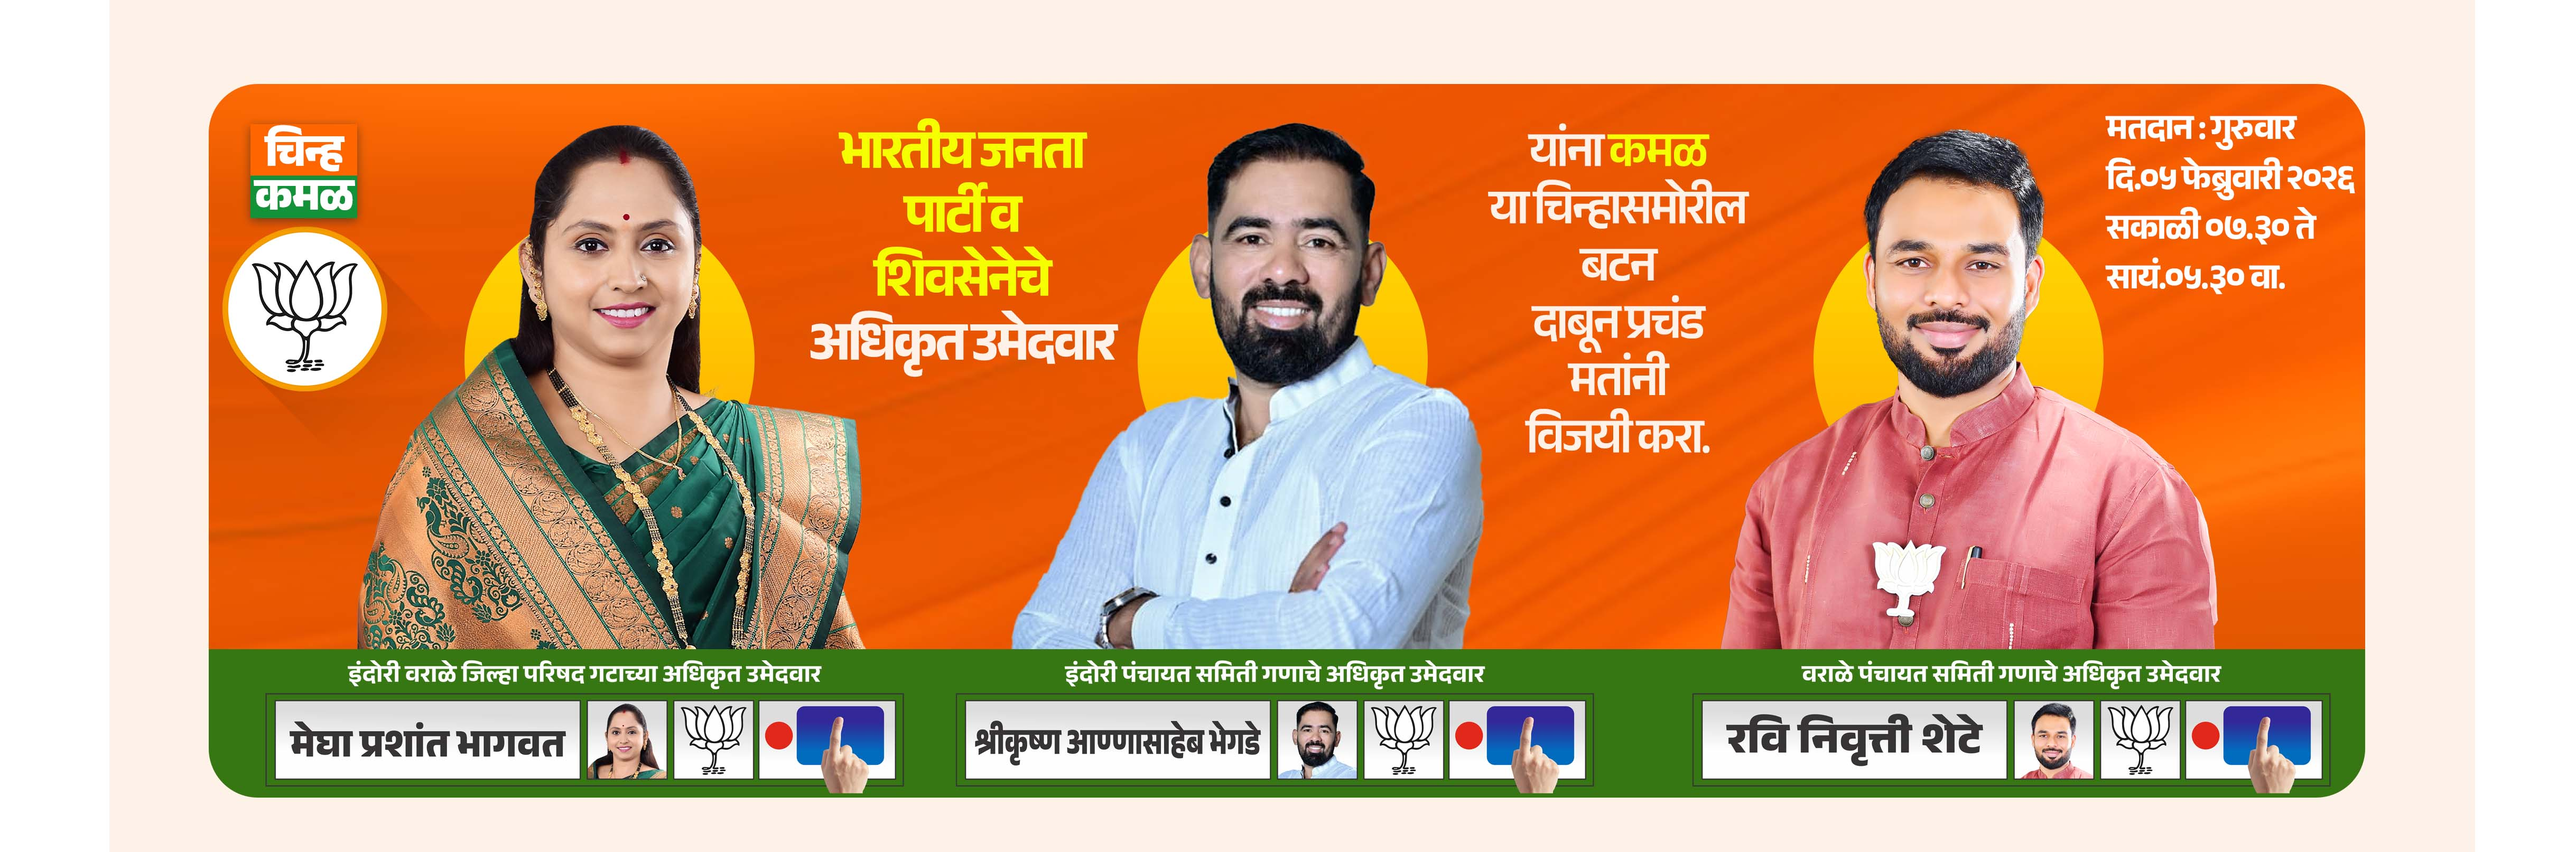
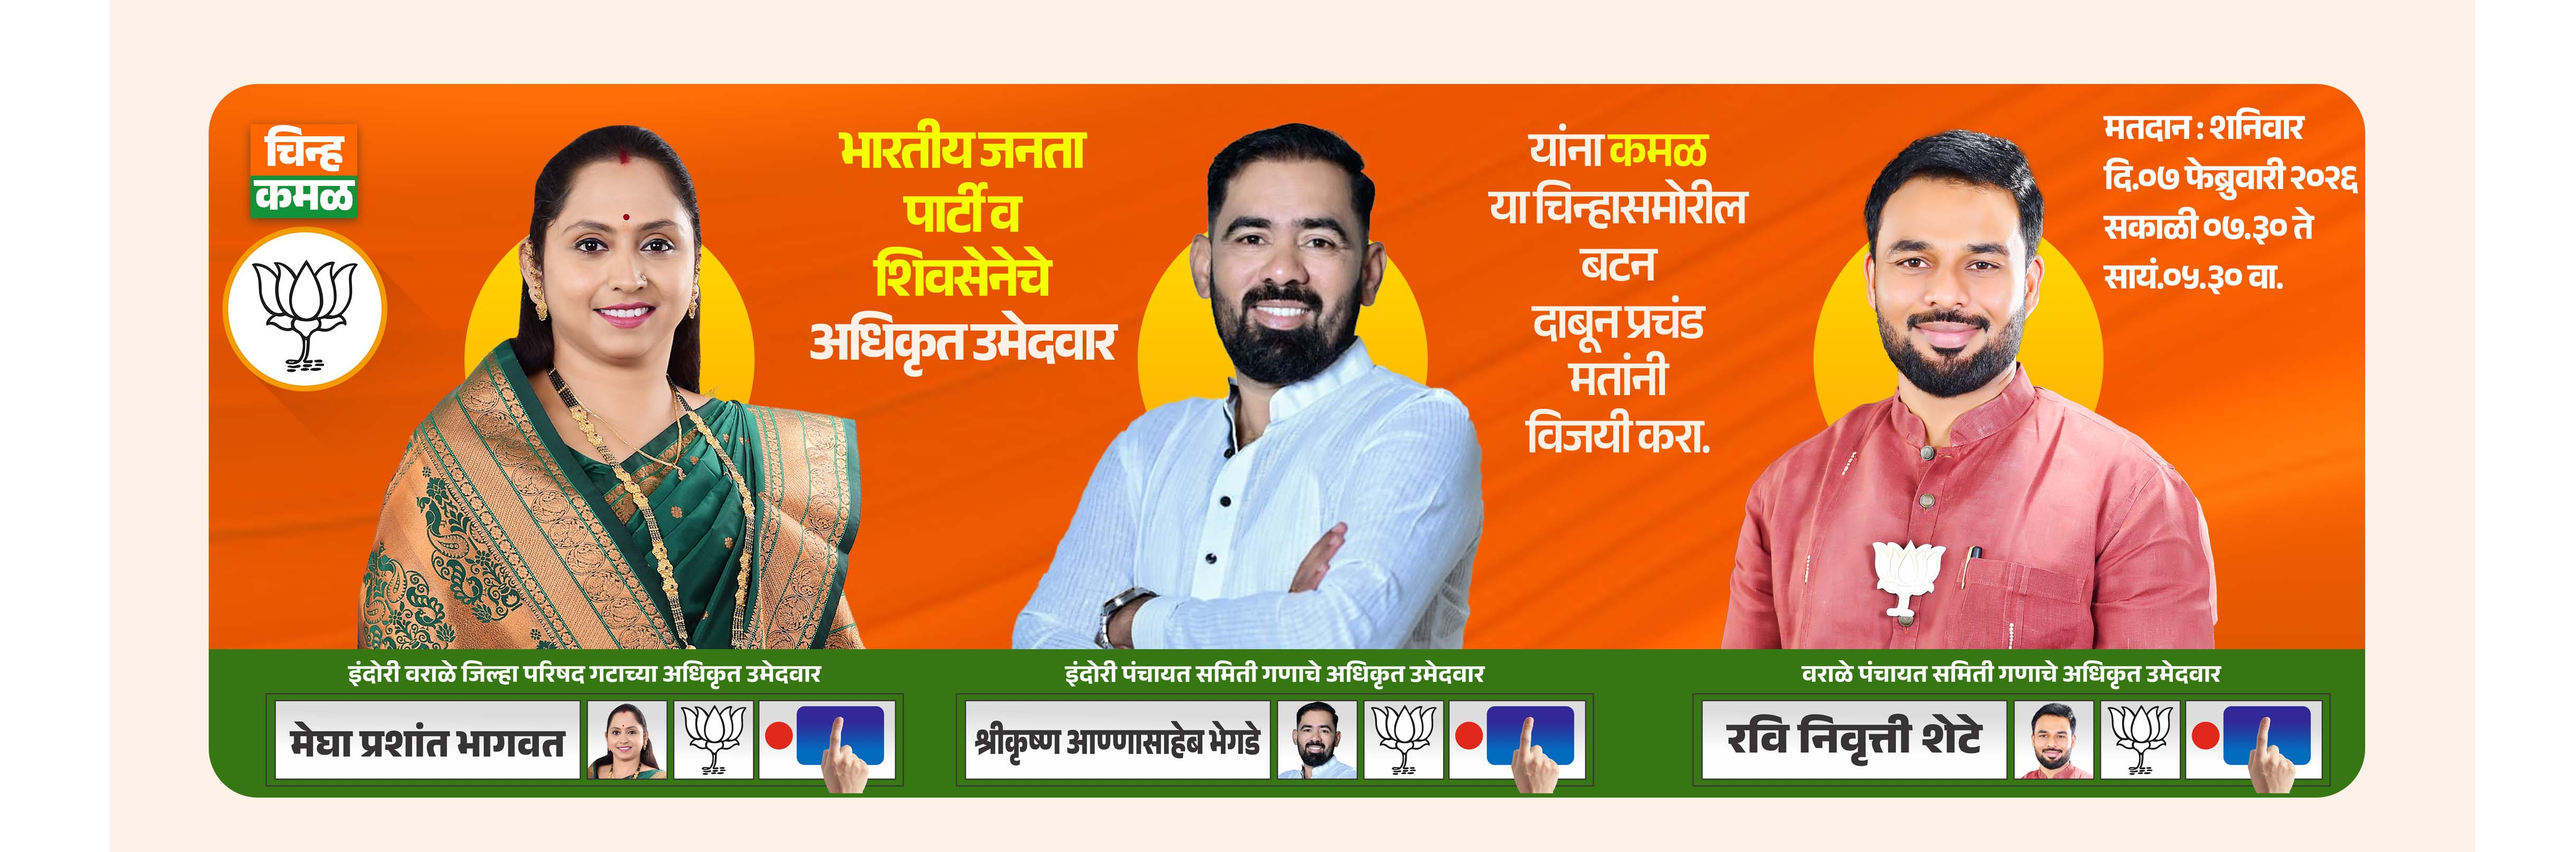
date-updated-new

Changed region(s): [[0.8107, 0.124, 0.9354, 0.279], [0.8107, 0.31, 0.9042, 0.341]]

diff --git a/components/Dashboard.tsx b/components/Dashboard.tsx
@@ -300,7 +300,7 @@ EPIC ID: ${voter.id}
 मतदान केंद्र: ${voter.booth_center}
 बूथ क्रमांक: ${voter.booth_number}
 गाव: ${voter.village}
-मतदानाची तारीख व वेळ : ५ फेब्रुवारी २०२६ रोजी सकाळी ७.३० ते सायंकाळी ५.३०
+मतदानाची तारीख व वेळ : ७ फेब्रुवारी २०२६ रोजी सकाळी ७.३० ते सायंकाळी ५.३०
 
 आपली नम्र: *सौ.मेघाताई प्रशांतदादा भागवत*
 
@@ -406,7 +406,7 @@ const downloadVoterSlip = async (voter: VoterWithParsedName & { id: string }) =>
           <p style="margin: 10px 0;"><strong style="color: #4b5563; font-size: 20px;">मतदान केंद्र:</strong> <span style="font-size: 18px;">${voter.booth_center}</span></p>
           <p style="margin: 10px 0;"><strong style="color: #4b5563; font-size: 20px;">बूथ क्रमांक:</strong> <span style="font-size: 20px;">${voter.booth_number}</span></p>
           <p style="margin: 10px 0;"><strong style="color: #4b5563; font-size: 20px;">गाव:</strong> <span style="font-size: 20px;">${voter.village}</span></p>
-          <p style="margin: 10px 0;"><strong style="color: #4b5563; font-size: 20px;">मतदानाची तारीख व वेळ:</strong> <span style="font-size: 18px;">५ फेब्रुवारी २०२६ रोजी सकाळी ७.३० ते सायंकाळी ५.३०</span></p>
+          <p style="margin: 10px 0;"><strong style="color: #4b5563; font-size: 20px;">मतदानाची तारीख व वेळ:</strong> <span style="font-size: 18px;">७ फेब्रुवारी २०२६ रोजी सकाळी ७.३० ते सायंकाळी ५.३०</span></p>
         </div>
       </div>
       
@@ -568,7 +568,7 @@ const VoterModal: React.FC<VoterModalProps> = ({ voter, onClose }) => {
             <div>
               <span className="font-medium text-gray-700 block mb-1">मतदानाची तारीख व वेळ:</span>
               <span className="col-span-2 py-1 text-green-800 rounded-full text-[16px]">
-                ५ फेब्रुवारी २०२६ रोजी स. ७.३० ते सा. ५.३०
+                ७ फेब्रुवारी २०२६ रोजी स. ७.३० ते सा. ५.३०
               </span>
             </div>
 
